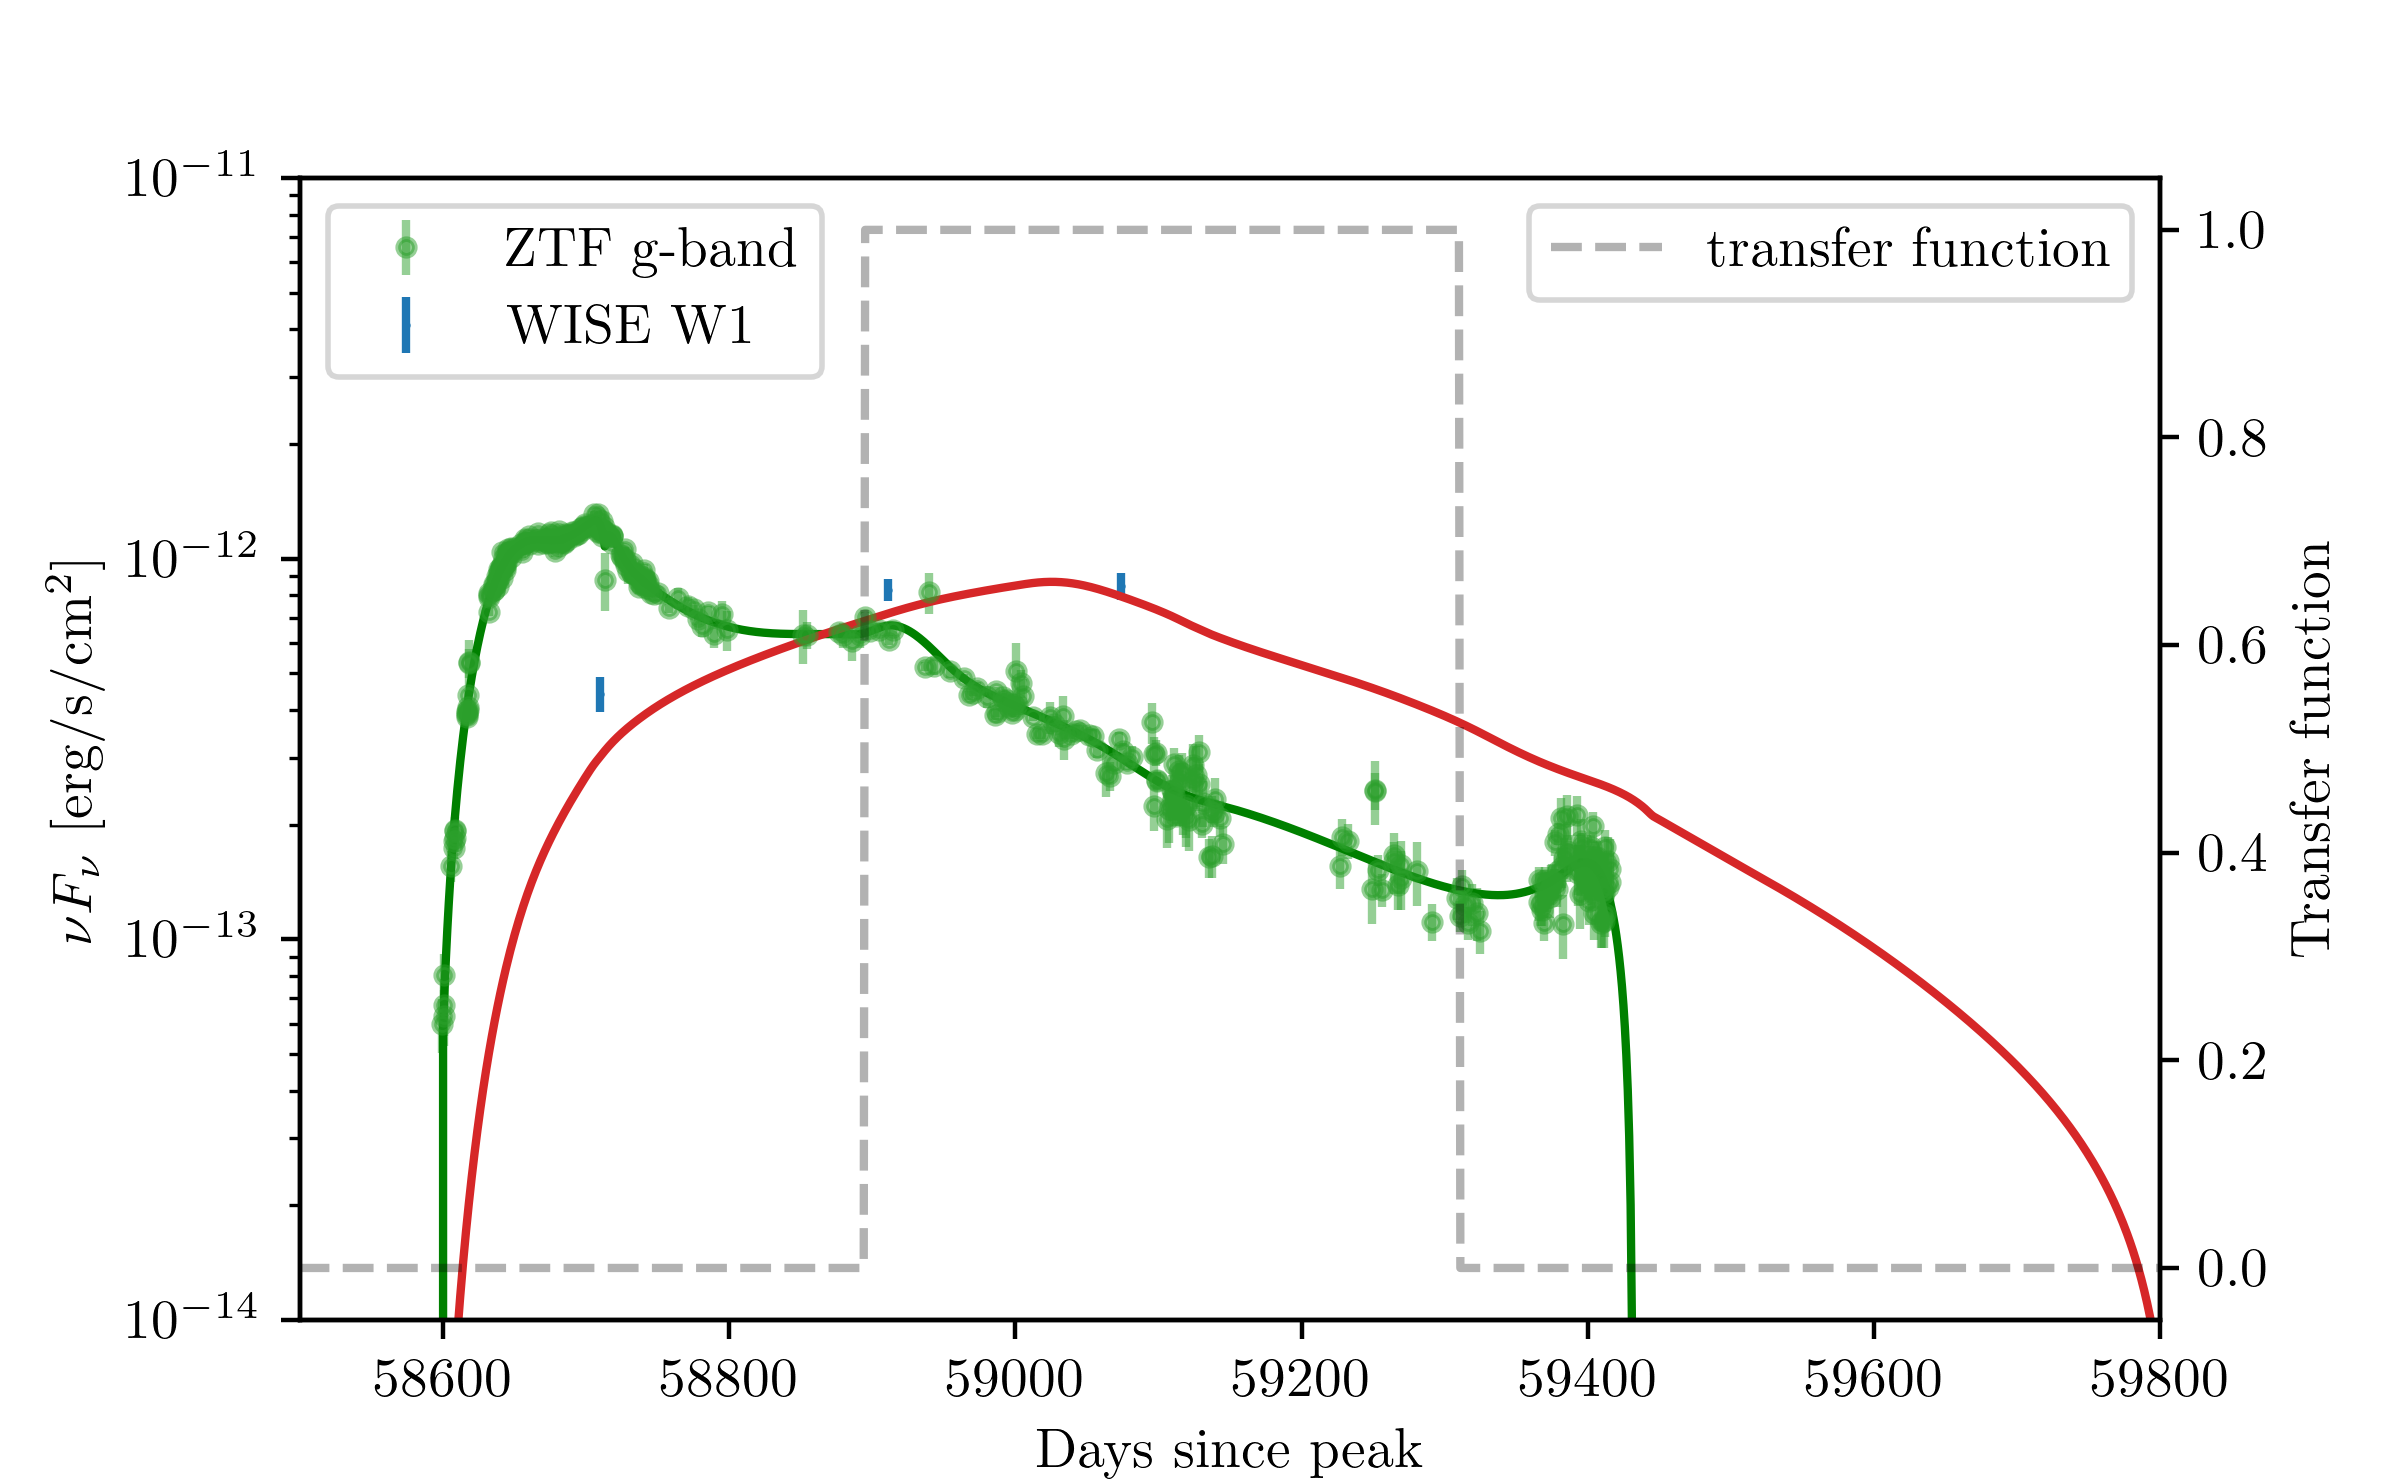
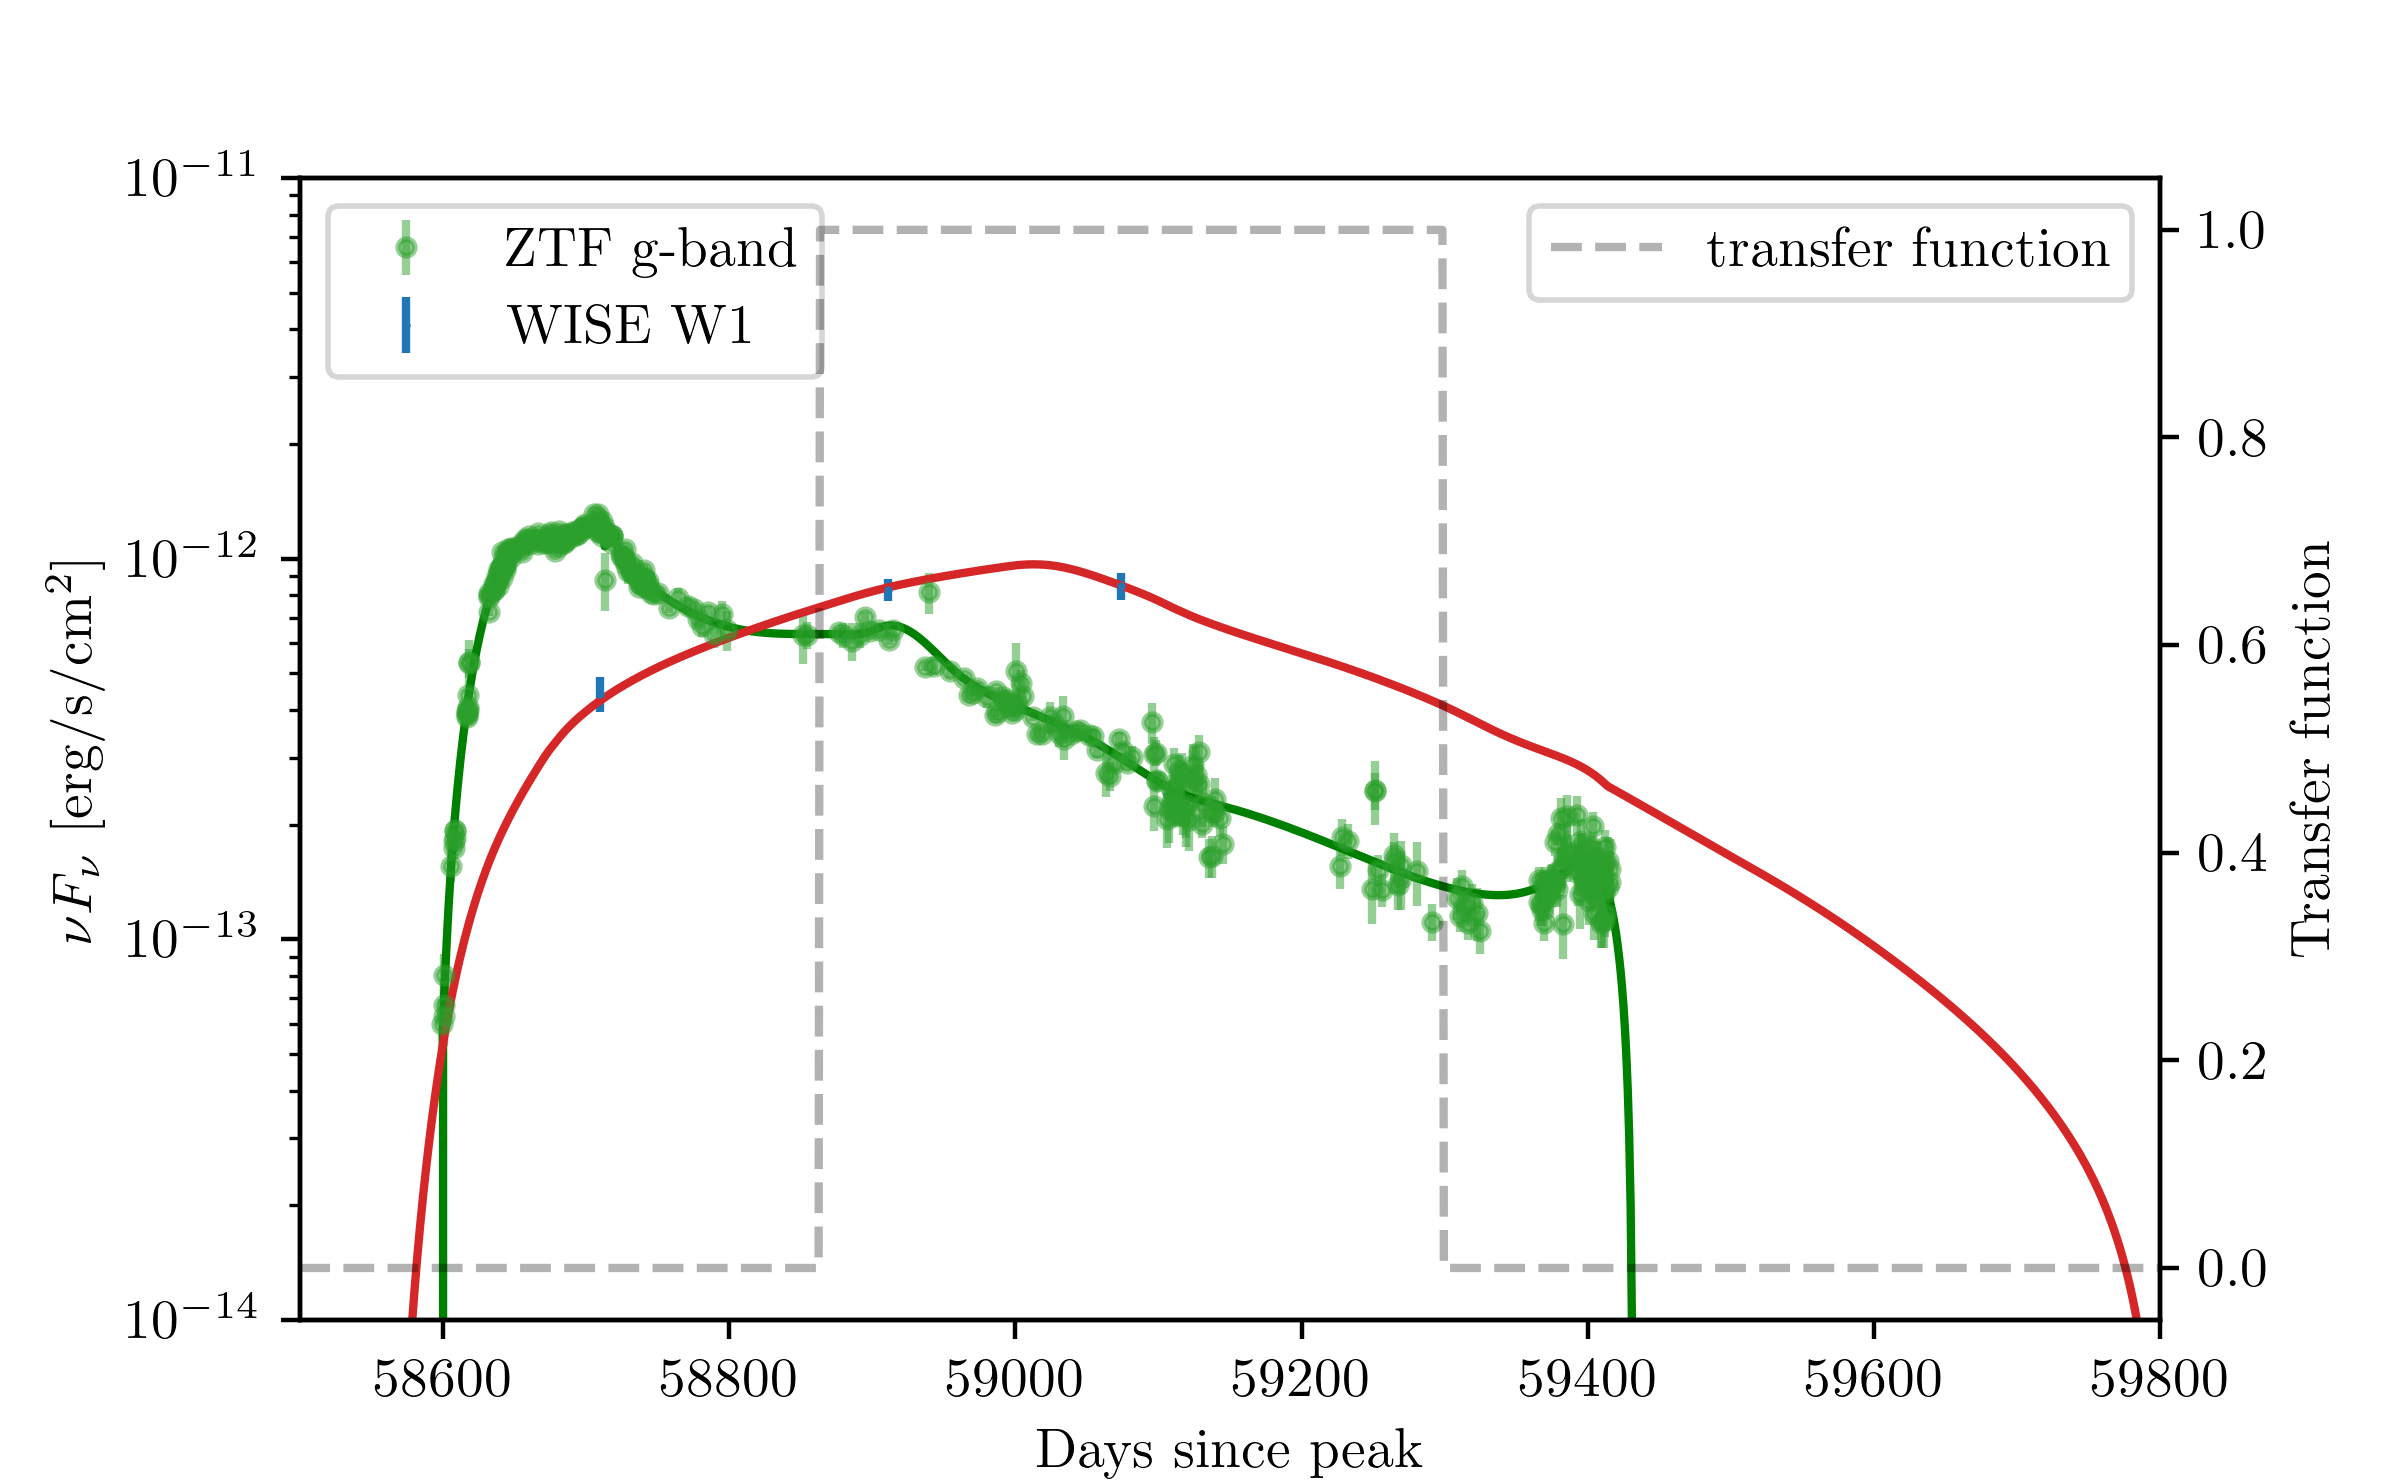
changes to dust model

diff --git a/dust_model.py b/dust_model.py
@@ -16,6 +16,11 @@ from lmfit import Model, Parameters, Minimizer, report_fit, minimize
 from astropy.cosmology import FlatLambdaCDM
 
 
+FIT = False
+FITMETHOD = "lm"
+PLOT = False
+
+
 def plot_results_brute(result, best_vals=True, varlabels=None, output=None):
     """Visualize the result of the brute force grid search.
 
@@ -138,9 +143,6 @@ mpl.rcParams.update(nice_fonts)
 mpl.rcParams["text.usetex"] = True
 mpl.rcParams["text.latex.preamble"] = [r"\usepackage{amsmath}"]  # for \text command
 
-FIT = True
-FITMETHOD = "brute"
-PLOT = True
 
 DPI = 400
 FIG_WIDTH = 6
@@ -175,14 +177,21 @@ fitted_max_optical_radius = np.max(df_fit["optical_radius"].values) * u.cm
 fitted_max_ir_radius = np.max(df_fit["infrared_radius"].values) * u.cm
 
 
-def equation_12(T=1850, R=0.1):
+def equation_12(T=1850, R=0.1, R_err=None):
     """
     T in Kelvin
     Radius in parsec
     """
     L_abs = 5 * 10 ** 44 * (R / 0.1) ** 2 * (T / 1850) ** 5.8 * u.erg / u.s
 
-    return L_abs
+    L_abs_dR = 10 * 10 ** 44 * (R / 0.1) * (T / 1850) ** 5.8 * u.erg / u.s
+
+    if R_err is not None:
+        L_abs_err = np.sqrt(L_abs_dR ** 2 * R_err ** 2)
+    else:
+        L_abs_err = None
+
+    return L_abs, L_abs_err
 
 
 infile_lc = os.path.join("data", "lightcurves", "full_lightcurve.csv")
@@ -353,11 +362,7 @@ data = np.insert(data, 0, 0)
 # looks good
 # data_err = np.insert(data_err, 0, 1e-14)
 # has errors
-data_err = np.insert(data_err, 0, 1e-17)
-
-print(x)
-print(data)
-print(data_err)
+data_err = np.insert(data_err, 0, 1e-13)
 
 minimizer = Minimizer(
     userfcn=minimizer_function,
@@ -384,11 +389,18 @@ if FIT:
     amplitude = res.params["amplitude"].value
 
 else:
-    delay = 178.33333
-    ltt = 222.66667
-    amplitude = 1.38888
+    delay = 178.399887
+    delay_err = 5
+    ltt = 198.228677
+    ltt_err = 178
+    amplitude = 1.35463143
+    ampl_err = 0.1
 
 dust_distance_model = (ltt * u.day * const.c).to(u.cm)
+dust_distance_model_err = (ltt_err * u.day * const.c).to(u.cm)
+
+dust_distance_model_pc = dust_distance_model.to(u.pc)
+dust_distance_model_err_pc = dust_distance_model_err.to(u.pc)
 
 
 boxfunc = []
@@ -481,15 +493,26 @@ print("\n")
 print("----- DUST DISTANCE -----")
 print(f"inferred from light travel time: {light_travel_distance:.2e}")
 print(f"inferred from BB fit: {fitted_max_ir_radius:.2e}")
-print(f"inferred from Sjoert's model: {dust_distance_model:.2e}")
+print(
+    f"inferred from Sjoert's model: {dust_distance_model:.2e} +/- {dust_distance_model_err:.2e}"
+)
+print(f"[{dust_distance_model_pc:.3f} +/- {dust_distance_model_err_pc:.3f}]")
 
 
-dist_sjoertmethod = ltt.to(u.s) * const.c
-R_Tywin_sjoertmethod = dist_sjoertmethod.to(u.pc).value
+# dist_sjoertmethod = ltt.to(u.s) * const.c
+# R_Tywin_sjoertmethod = (ltt.to(u.s) * const.c).to(u.pc).value
+
 
 T_Tywin = 1850
 
-L_abs_paper = equation_12(T=T_Tywin, R=R_Tywin_sjoertmethod)
+L_abs_paper, L_abs_paper_err = equation_12(
+    T=T_Tywin, R=dust_distance_model_pc.value, R_err=dust_distance_model_err_pc.value
+)
+
+print(L_abs_paper)
+print(L_abs_paper_err)
+print("this is BS!!!!")
+
 log10L_abs_paper = np.log10(L_abs_paper.value)
 L_abs_frombb = 1.02e45 * u.erg / u.s
 log10_L_abs_frombb = np.log10(L_abs_frombb.value)
@@ -498,7 +521,7 @@ L_dust_frombb = 4.93e44 * u.erg / u.s
 
 print("\n")
 print("----- ENERGETICS (ALL FROM SJOERT'S MODEL) -------")
-print(f"R used for following calculations: {R_Tywin_sjoertmethod:.3f} pc")
+print(f"R used for following calculations: {dust_distance_model_pc:.3f}")
 print(f"T used for following calculations: {T_Tywin} K")
 print("\n")
 print(f"L_abs (paper eq. 12) = {L_abs_paper:.2e}")

diff --git a/test.py b/test.py
@@ -1,0 +1,41 @@
+#!/usr/bin/env python3
+# Author: Simeon Reusch (simeon.reusch@desy.de)
+# License: BSD-3-Clause
+
+
+import numpy as np
+
+
+# IC200530A
+# RA = 255.37
+# RA_err = [2.48, -2.56]
+# Dec = 26.61
+# Dec_err = [2.33, -3.28]
+
+# IC190503A
+# RA = 120.28
+# RA_err = [0.57, -0.77]
+# Dec = 6.35
+# Dec_err = [0.76, -0.7]
+
+# IC190619A
+RA = 343.26
+RA_err = [4.08, -2.63]
+Dec = 10.73
+Dec_err = [1.51, -2.61]
+
+
+Dec_0 = np.mean([Dec + Dec_err[0], Dec + Dec_err[1]])
+
+RA_width = (RA + RA_err[0]) - (RA + RA_err[1])
+Dec_width = (Dec + Dec_err[0]) - (Dec + Dec_err[1])
+correction = np.cos(np.radians(Dec_0))
+
+print(RA_width)
+print(Dec_width)
+print(Dec_0)
+print(correction)
+
+area = RA_width * Dec_width * correction
+
+print(f"The rectangular area reported is {area:.2f} sq. deg.")
